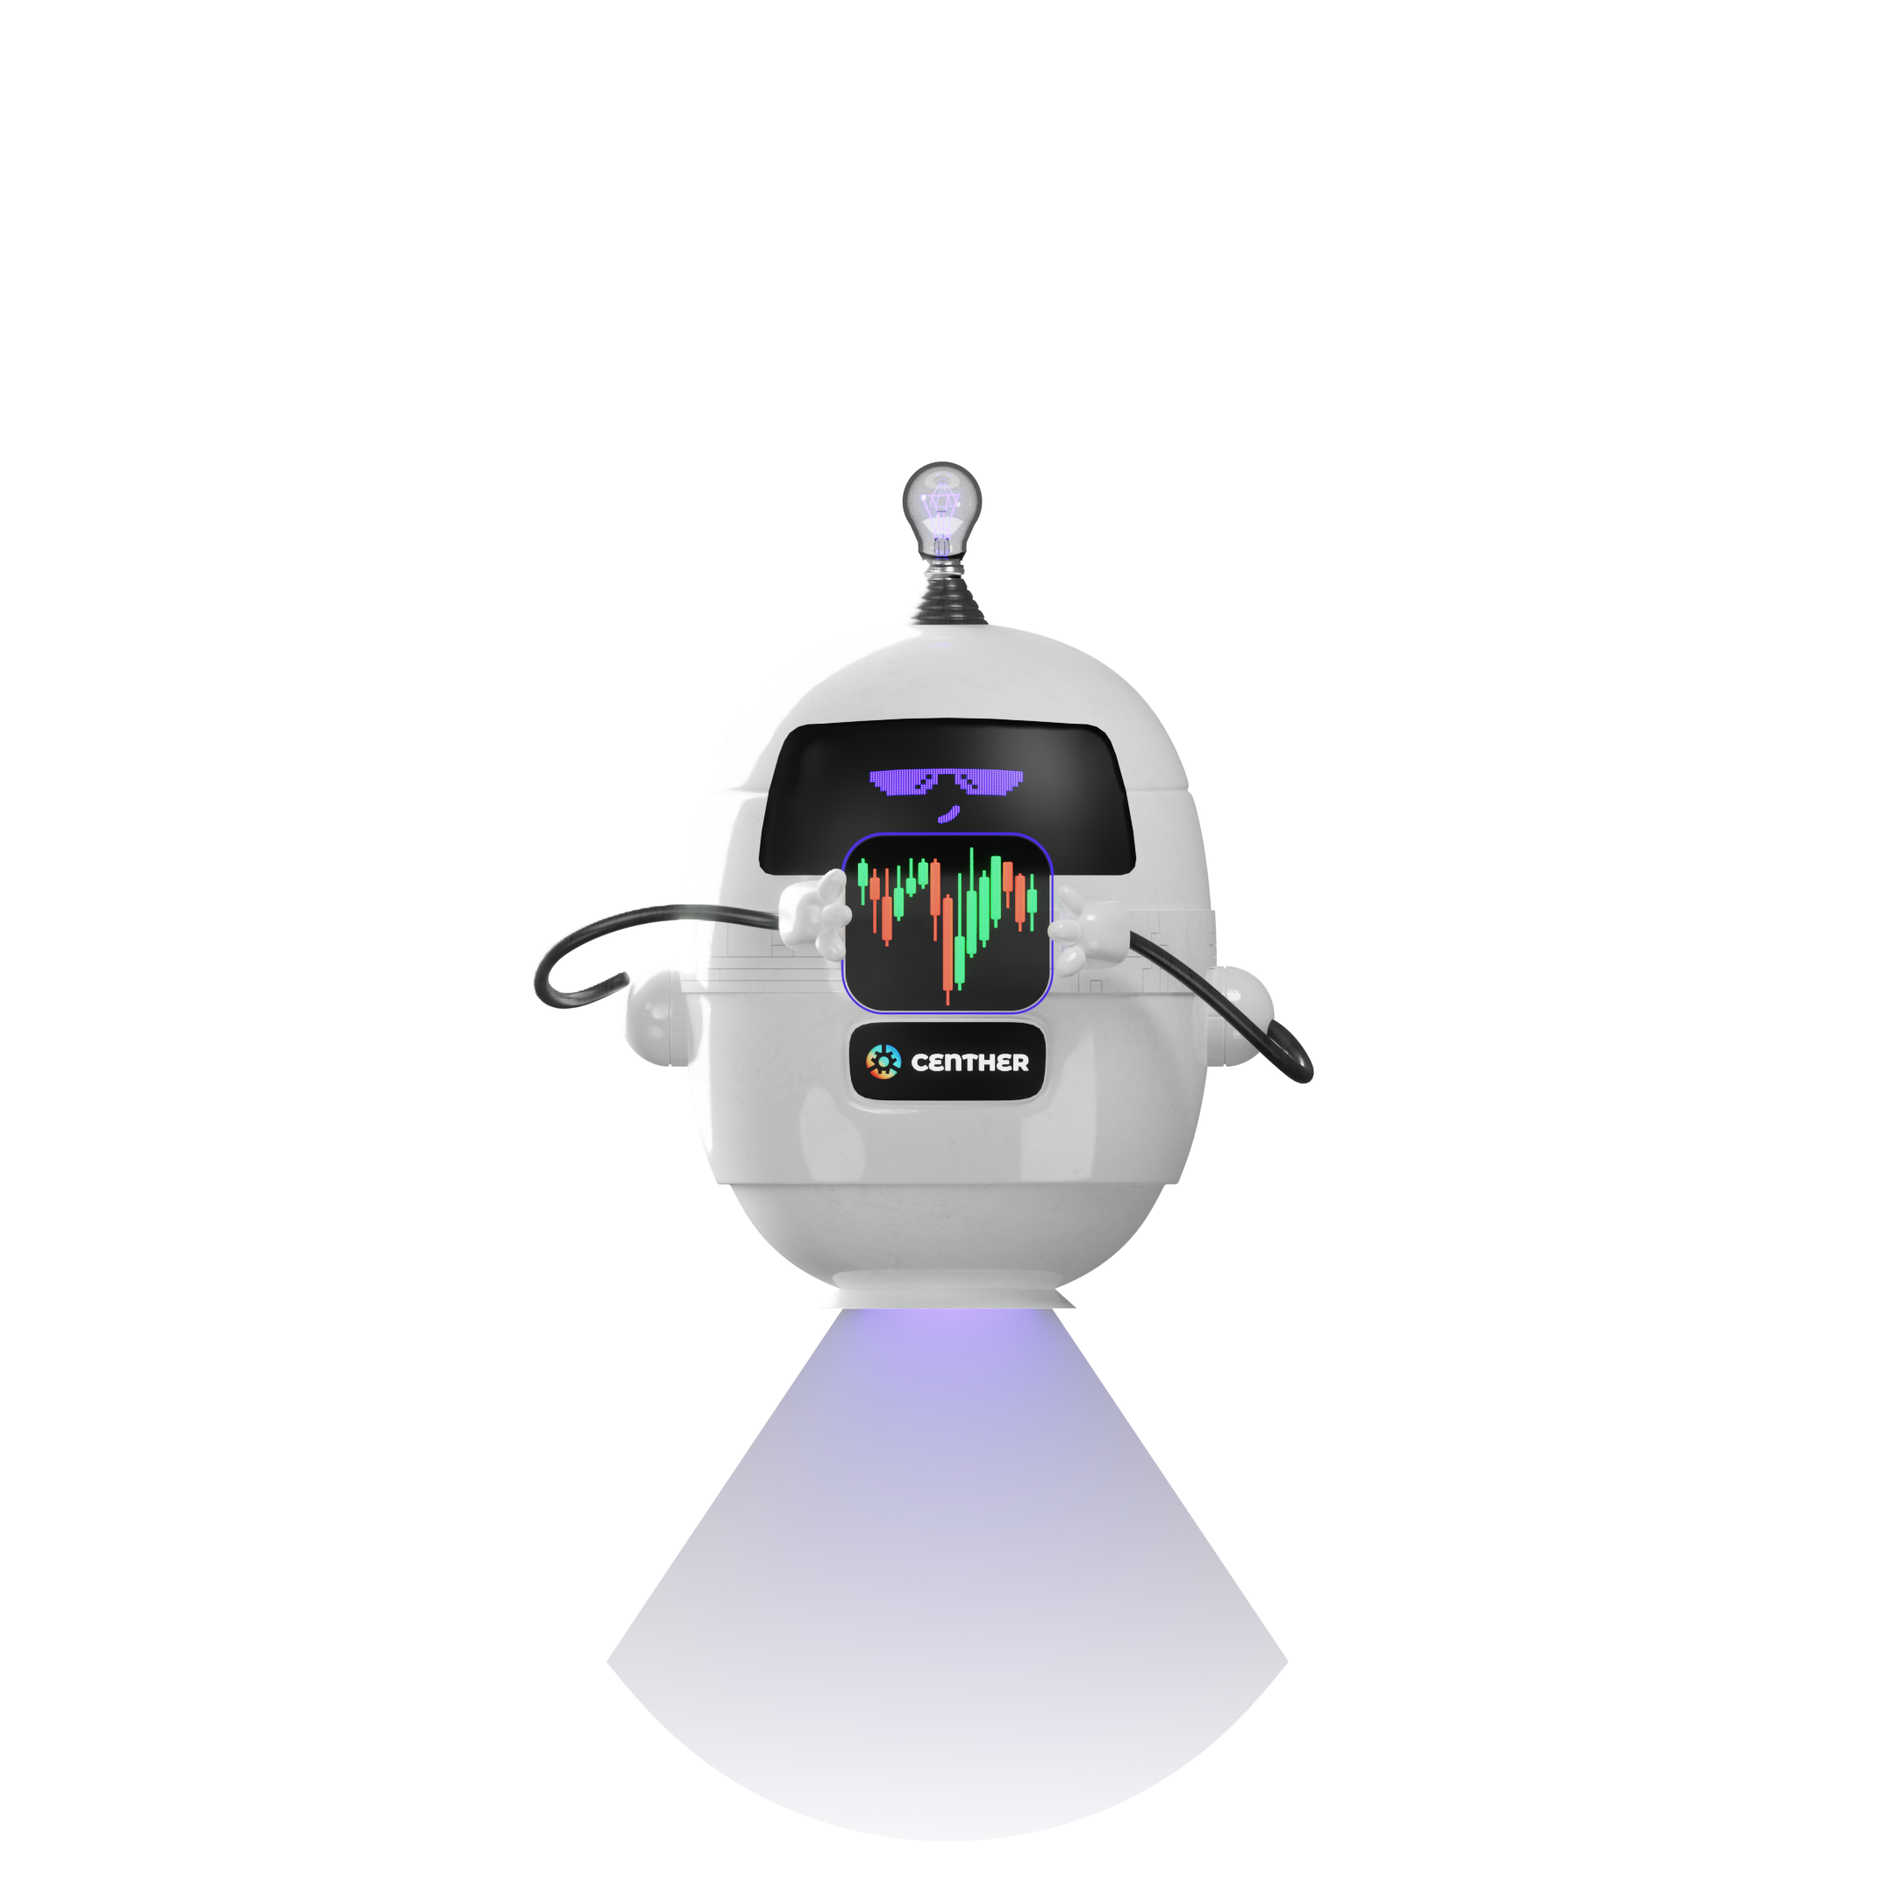
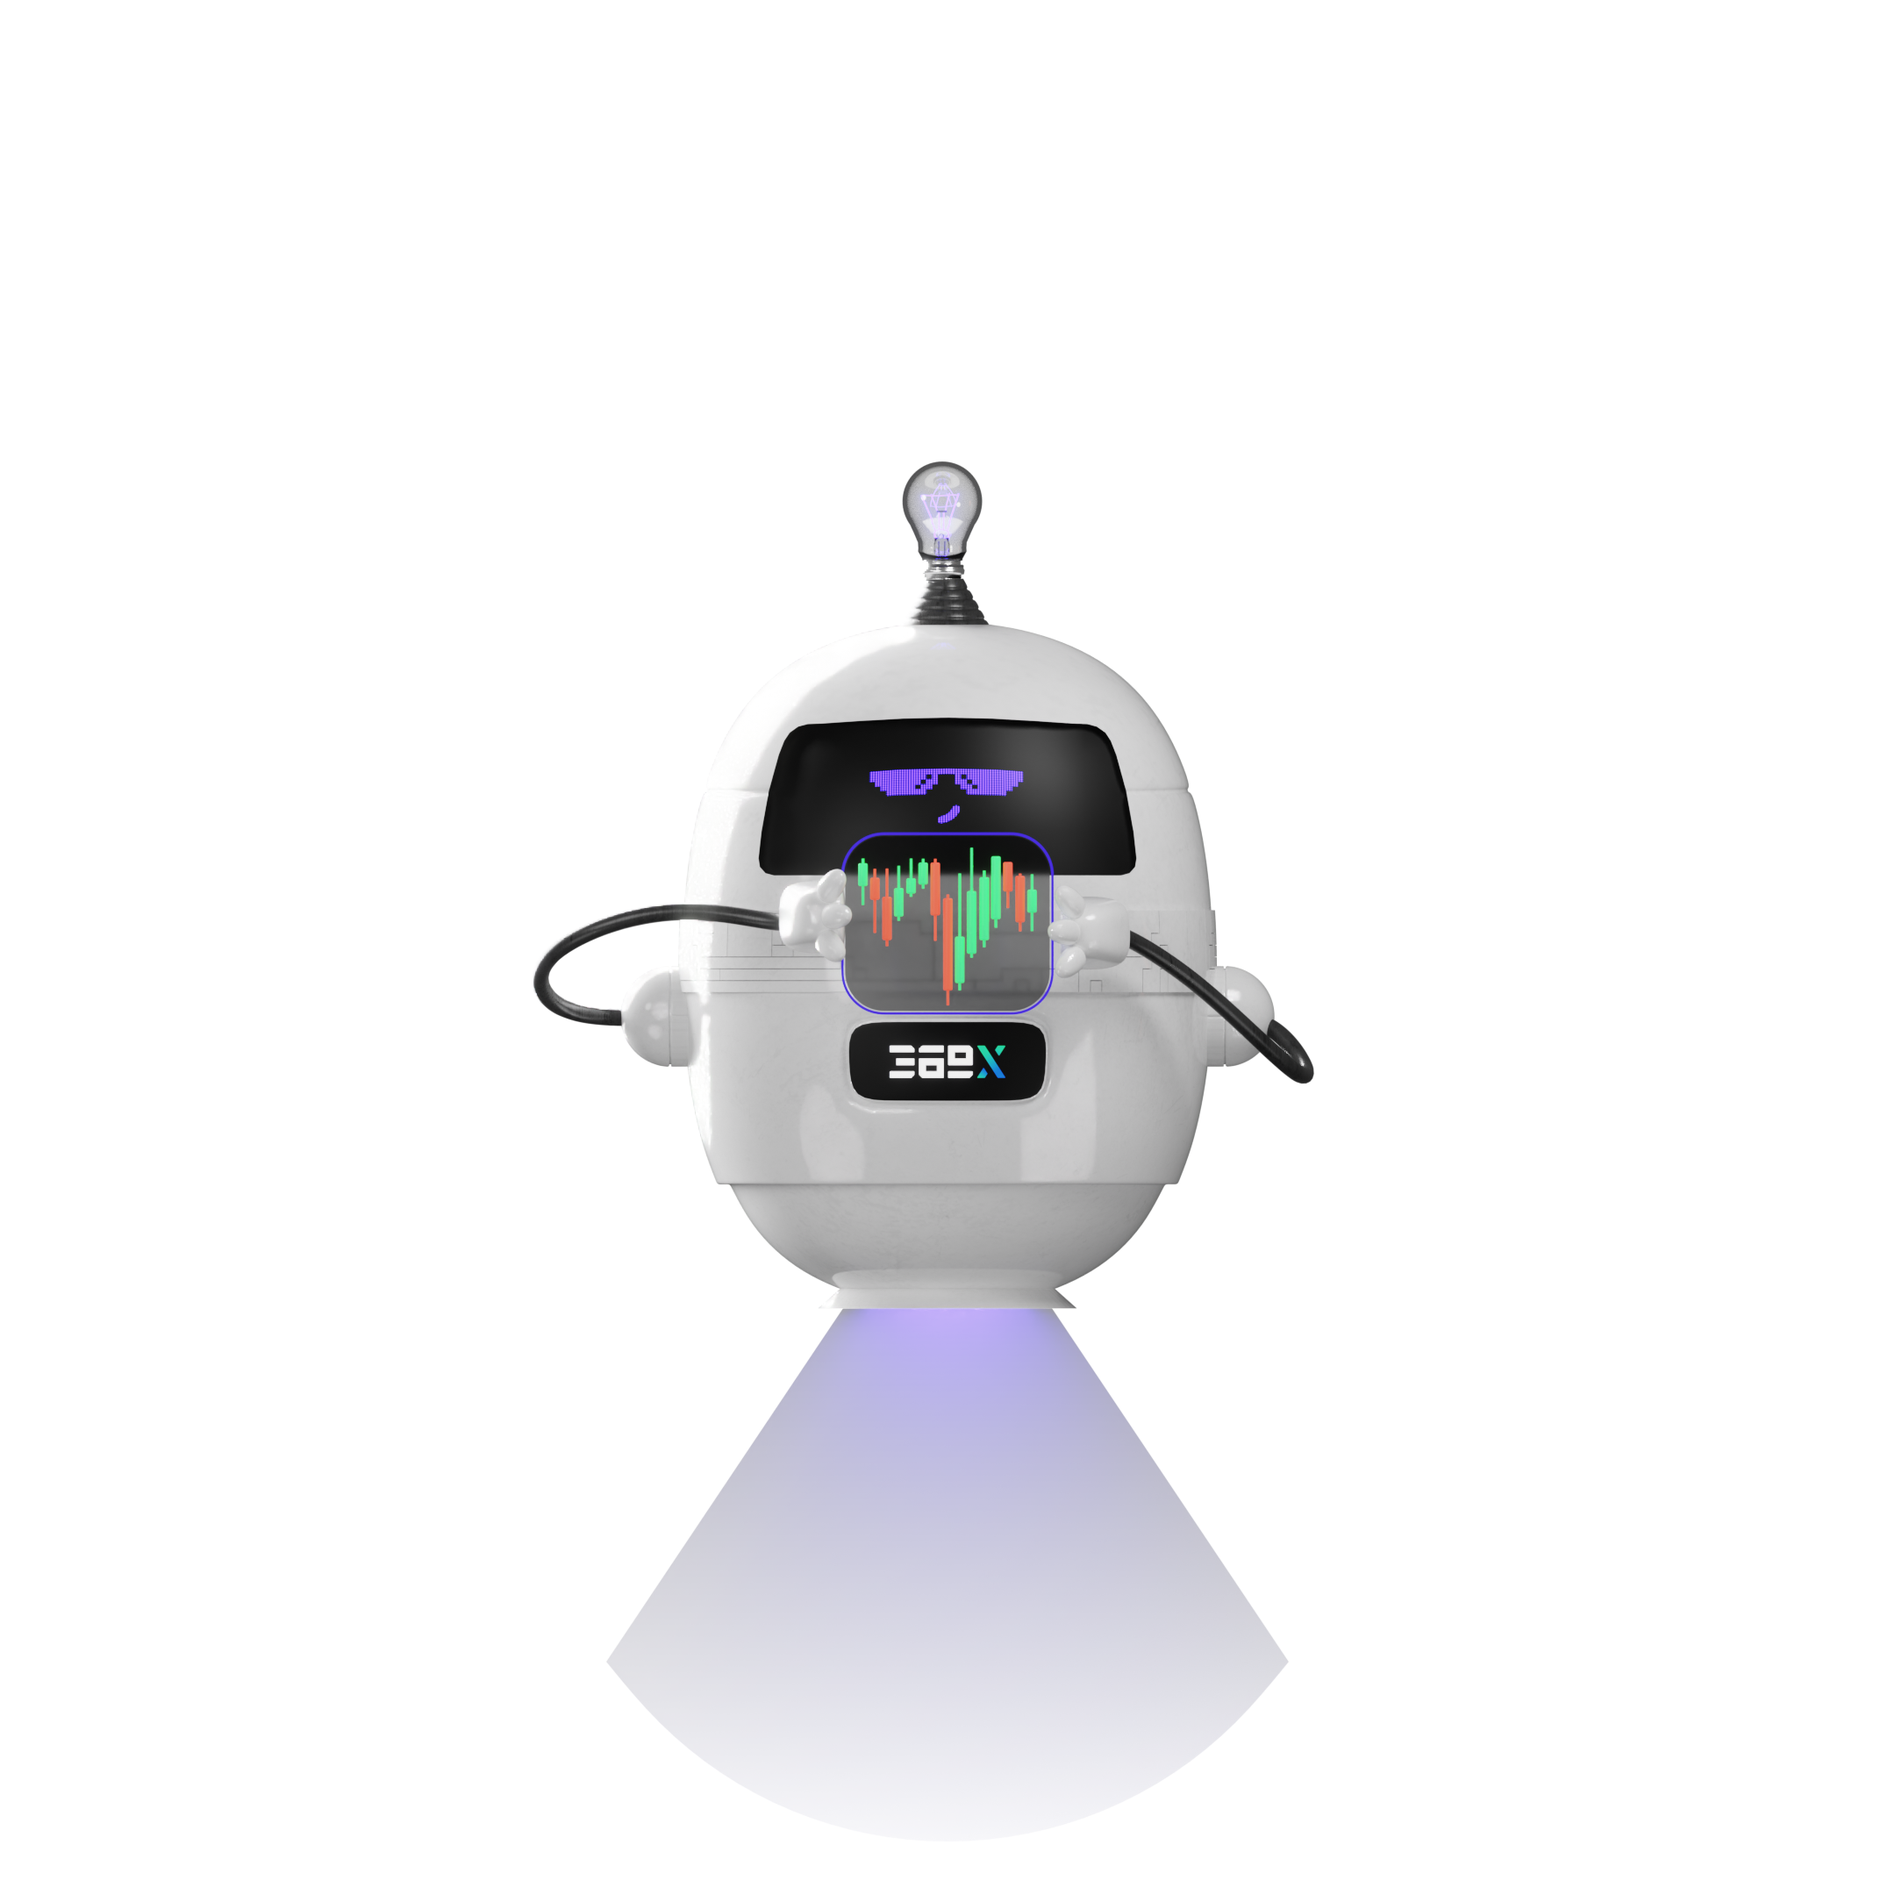
fix: images updated

Changed region(s): [[0.4343, 0.4653, 0.5583, 0.5894], [0.2792, 0.4963, 0.3412, 0.5583]]

diff --git a/pages/staking/create-staking/_components/staking-review-modal.tsx b/pages/staking/create-staking/_components/staking-review-modal.tsx
@@ -225,7 +225,7 @@ export const StakingReviewModal: React.FC<CustomModalProps> = ({
                             ? URL.createObjectURL(data?.profile_image)
                             : ""
                         }
-                        alt="token-address-symbol"
+                        alt="profile image"
                         width={44}
                         height={44}
                         className="h-11 w-11 rounded-full object-cover"
@@ -255,7 +255,7 @@ export const StakingReviewModal: React.FC<CustomModalProps> = ({
                               eqAddress(data.token_address, e?.contractAddress)
                             )?.logo as string
                           }
-                          alt="token-address-symbol"
+                          alt="token logo"
                           width={20}
                           height={20}
                         />
@@ -345,7 +345,7 @@ export const StakingReviewModal: React.FC<CustomModalProps> = ({
                                 )
                               )?.logo as string
                             }
-                            alt="token-address-symbol"
+                            alt="token logo"
                             width={20}
                             height={20}
                           />
@@ -755,7 +755,7 @@ export const StakingReviewModal: React.FC<CustomModalProps> = ({
                               </span>
                               <span className="verifiedIcon ml-1 h-5 w-5 min-w-[1.25rem]">
                                 <Image
-                                  src={"/images/rainbow-last-frame.png"}
+                                  src={"/images/verified-icon.png"}
                                   alt={"Verified"}
                                   width={20}
                                   height={20}

diff --git a/components/script.tags/index.tsx b/components/script.tags/index.tsx
@@ -6,7 +6,7 @@ const ScriptTags = () => {
   return (
     <>
       <Head>
-        <title>Centher.io</title>
+        <title>369x.io</title>
 
         <meta httpEquiv="Content-Type" content="text/html; charset=UTF-8" />
         <meta httpEquiv="X-UA-Compatible" content="IE=edge" />
@@ -30,12 +30,12 @@ const ScriptTags = () => {
           property="og:description"
           content="369x.io is worlds best and reliable Web3 token and NFT Marketplace"
         />
-        <meta property="og:url" content="https://app.centher.io/" />
-        <meta property="og:site_name" content="Centher.io" />
+        <meta property="og:url" content="https://app.369x.io/" />
+        <meta property="og:site_name" content="369x.io" />
         <meta
           property="og:image"
           itemProp="image"
-          content="/images/369x.logo.bg.550.420.png"
+          content="/images/logo.bg.550.420.png"
         />
         <meta property="og:image:width" content="550" />
         <meta property="og:image:height" content="420" />
@@ -45,14 +45,11 @@ const ScriptTags = () => {
           name="twitter:description"
           content="369x.io is worlds best and reliable Web3 token and NFT Marketplace"
         />
-        <meta name="twitter:title" content="Centher.io" />
-        <meta name="twitter:image" content="/images/369x.logo.bg.550.420.png" />
+        <meta name="twitter:title" content="369x.io" />
+        <meta name="twitter:image" content="/images/logo.bg.550.420.png" />
 
         {/* TODO: Shivam - Need google site verification content */}
-        <meta
-          name="google-site-verification"
-          content="cmqFPwe-1bs7Dscw6QxvdWPAQ52MuaUV2RrfhE17oo8"
-        />
+        <meta name="google-site-verification" content="" />
 
         <link
           rel="apple-touch-icon"

diff --git a/assets/svgs/index.tsx b/assets/svgs/index.tsx
@@ -69,7 +69,7 @@ export { default as Users } from "./users.svg";
 export { default as PlusIconBtn } from "./plus.icon.btn.svg";
 export { default as DeleteIconBtnCoinPack } from "./delete.icon.btn.coin.pack.svg";
 export { default as LeftArrowIcon } from "./buy.cnether.arrow.icon.svg";
-export { default as SpinIcon2 } from "./spin.registeration.icon.svg";
+
 export { default as SpinIcon3 } from "./spin.login.icon.svg";
 export { default as Successfully } from "./successfully.registeration.icon.svg";
 export { default as YellowTick } from "./yellow.tick.icon.svg";
@@ -104,10 +104,10 @@ export { default as GreyTwitterIcon } from "./grey.twitter.icon.collection.svg";
 export { default as ShareBigIcon } from "./share.big.icon.svg";
 export { default as BNBIcon } from "./bnb.icon.svg";
 export { default as LoaderIcon } from "./loader.icon.svg";
+
 export { default as FacebookCircleIcon } from "./facebook.icon.collection.svg";
 export { default as DeleteCrossIcon } from "./delete.cross.icon.svg";
 export { default as SuccessIcon } from "./success.icon.svg";
-export { default as WarningIcon } from "./warning.icon.svg";
 export { default as MoreHorizental } from "./more.horizental.svg";
 export { default as NewMessageIcon } from "./new.message.icon.svg";
 export { default as IconMessage } from "./icon.message.svg";

diff --git a/components/auth.left/index.tsx b/components/auth.left/index.tsx
@@ -18,7 +18,7 @@ export const AuthLeft: React.FC<SignupProps> = (props) => {
         <div className={`w-fit`}>
           <Link href={AppRoutes.home}>
             <Image
-              src="/images/369x.logo.png"
+              src="/images/logo.png"
               alt="369x Logo"
               width={75}
               height={39}
@@ -30,15 +30,8 @@ export const AuthLeft: React.FC<SignupProps> = (props) => {
           <div
             className={`flex flex-col items-center justify-center md:px-10 lg:px-20 f2xl:px-32`}
           >
-            <div className={`w-fit`}>
-              <Image
-                src="/images/369x.logo.favicon.png"
-                alt="logo"
-                width={201}
-                height={56}
-              />
-            </div>
-            <div className={`flex flex-col items-center gap-6`}>
+            <Image src="/images/logo.png" alt="logo" width={209} height={68} />
+            <div className={`flex flex-col items-center gap-6 md:pt-20`}>
               <h1 className={`text-center text-2xl font-semibold text-white`}>
                 {props.title}
               </h1>

diff --git a/pages/staking/_components/list-card.tsx b/pages/staking/_components/list-card.tsx
@@ -54,7 +54,7 @@ const GridLayoutCard: React.FC<ListCardProps> = ({ card, coins, sdk }) => {
               ? formatIPFSUrl(card.metadata.banner)
               : "/images/profile-header-cover.jpg"
           }
-          alt="token-address-symbol"
+          alt="profile-header-cover"
           width={1040}
           height={360}
           quality={100}
@@ -69,7 +69,7 @@ const GridLayoutCard: React.FC<ListCardProps> = ({ card, coins, sdk }) => {
                 ? formatIPFSUrl(card.metadata.icon)
                 : "/images/profile-header-cover.jpg"
             }
-            alt="token-address-symbol"
+            alt="profile-header-cover"
             width={112}
             height={112}
             quality={100}
@@ -133,7 +133,7 @@ const GridLayoutCard: React.FC<ListCardProps> = ({ card, coins, sdk }) => {
                     eqAddress(e?.contractAddress, card.token_address)
                   )?.logo as string
                 }
-                alt="token-address-symbol"
+                alt="coin logo"
                 width={20}
                 height={20}
               />

diff --git a/components/modal/standard.modal.tsx b/components/modal/standard.modal.tsx
@@ -4,9 +4,9 @@ import { IoClose } from "react-icons/io5";
 import { ModalPortal } from "./modal.portal";
 import {
   DeleteCrossIcon,
-  SpinIcon2,
+  LoaderIcon,
   SuccessIcon,
-  WarningIcon,
+  WarningGradient,
   BUSDIconBG,
   NTRIconBG,
   DXCIconBG,
@@ -87,13 +87,13 @@ export const StandardModal: React.FC<ModalProps> = ({
           {/* Content */}
           <div className="space-y-4 p-4 text-center">
             {status === "progress" && (
-              <SpinIcon2 className="inline-block h-16 w-16 animate-spin" />
+              <LoaderIcon className="inline-block h-16 w-16 animate-spin" />
             )}
             {status === "success" && (
               <SuccessIcon className="inline-block h-16 w-16" />
             )}
             {status === "warning" && (
-              <WarningIcon className="inline-block h-16 w-16" />
+              <WarningGradient className="inline-block h-16 w-16" />
             )}
             {status === "error" && (
               <DeleteCrossIcon className="inline-block h-16 w-16" />

diff --git a/pages/staking/_components/faqs-data.ts b/pages/staking/_components/faqs-data.ts
@@ -3,7 +3,7 @@ export const faqsData: Faq[] = [
     id: 1,
     question: "How to stake your Tokens?",
     answer:
-      "On Centher, navigate to Staking page and choose the Staking Project you want to invest in, click on it to open the main project page and insert the amount of token you want to stake. All the details about your rewards and lock period can be found on the project details page. You can only stake tokens you have already purchased or received and have in your wallet.",
+      "On 369x, navigate to Staking page and choose the Staking Project you want to invest in, click on it to open the main project page and insert the amount of token you want to stake. All the details about your rewards and lock period can be found on the project details page. You can only stake tokens you have already purchased or received and have in your wallet.",
   },
   {
     id: 2,

diff --git a/pages/auth/register/_components/register.form.tsx b/pages/auth/register/_components/register.form.tsx
@@ -9,7 +9,7 @@ import { WalletEnum, useWallet } from "@/web3/hooks/use.wallet";
 import { sliceAccountAddress } from "@/utils/user.helpers";
 import { customLog } from "@/utils/custom.log";
 import {
-  SpinIcon2,
+  LoaderIcon,
   Successfully,
   WalletIconModal,
   MetamaskIcon,
@@ -255,7 +255,7 @@ export const RegisterForm: React.FC = () => {
               {feeModal.status === "start" ? (
                 <WalletIconModal />
               ) : feeModal.status === "progress" ? (
-                <SpinIcon2 className="animate-spin" />
+                <LoaderIcon className="animate-spin" />
               ) : (
                 feeModal.status === "end" && <Successfully />
               )}

diff --git a/utils/modal/message-modal/index.tsx b/utils/modal/message-modal/index.tsx
@@ -1,6 +1,6 @@
 import React from "react";
 import Button from "@/components/button";
-import { WarningIcon } from "@/assets/svgs";
+import { WarningGradient } from "@/assets/svgs";
 
 interface MMProps {
   heading: string;
@@ -17,7 +17,7 @@ const MessageModal: React.FC<MMProps> = ({
 }) => {
   return (
     <div className="flex w-full flex-col gap-2 px-2 pt-2 text-center fmd:px-4 fmd:pt-4">
-      <WarningIcon className="mx-auto mb-4 mt-5" />
+      <WarningGradient className="mx-auto mb-4 mt-5" />
       <h3 className="mt-2 text-base font-semibold leading-6 text-white fmd:text-lg">
         {heading}
       </h3>

diff --git a/pages/admin/network-rewards/_components/overview.card.tsx b/pages/admin/network-rewards/_components/overview.card.tsx
@@ -27,7 +27,7 @@ const OverviewCards = ({ data }: any) => {
       </div>
       <div className="card  flex flex-col gap-3 rounded-xl bg-elevation-1 p-6 ">
         <h5 className="text-xs font-semibold text-gray-shade-7">
-          Total CENTHER to be distributed
+          Total 369x to be distributed
         </h5>
         <h6 className="text-sm font-semibold text-white">
           {data.totalCentherTobeDistributedFromBusd +

diff --git a/components/feed.components/single.post.v2/logged.in.modal.tsx b/components/feed.components/single.post.v2/logged.in.modal.tsx
@@ -37,7 +37,7 @@ export const LoggedInModal: React.FC<Props> = ({ isOpen, onClose }) => {
             <header className="flex items-center justify-between text-white">
               <h3 className="text-lg font-semibold">
                 <Image
-                  src="/images/369x.logo.png"
+                  src="/images/logo.png"
                   alt="369x Logo"
                   width={75}
                   height={39}

diff --git a/pages/terms/index.page.tsx b/pages/terms/index.page.tsx
@@ -17,7 +17,7 @@ const Terms: NextPage = () => {
         </h3>
 
         <div className="mt-4 px-4 text-sm font-medium text-[#888DAA] flg:px-0">
-          Last updated on December 01, 2022
+          Last updated on August 26, 2024
         </div>
         <p className="mt-6 px-4 text-sm font-medium text-white fsm:text-lg flg:px-0">
           By registering and interacting on <strong>369x</strong> the user
